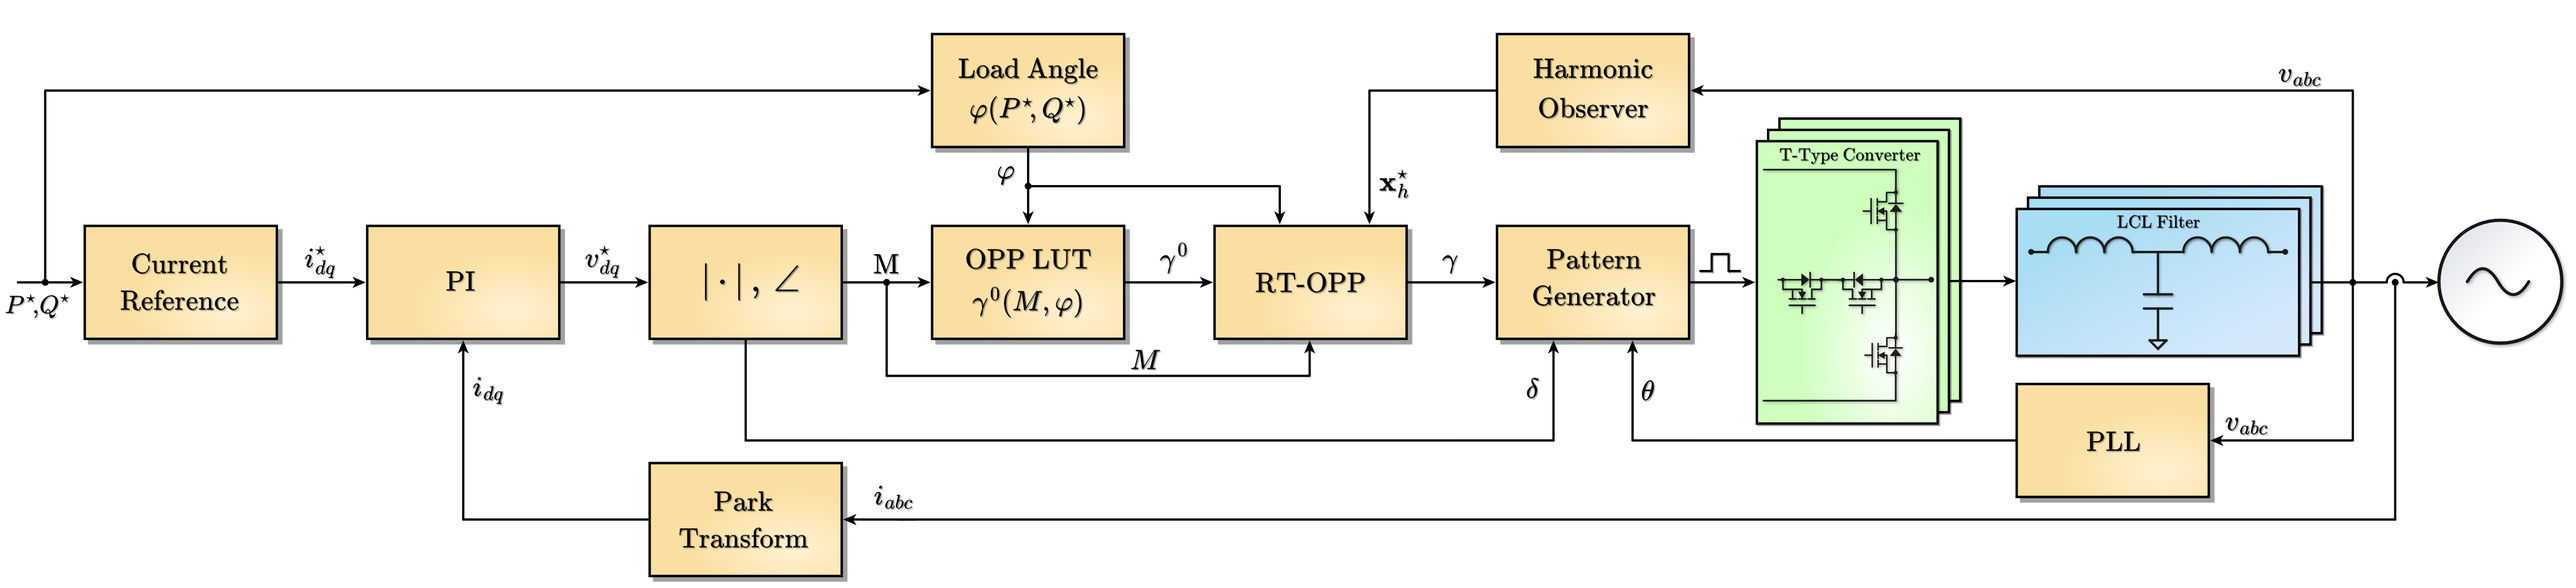
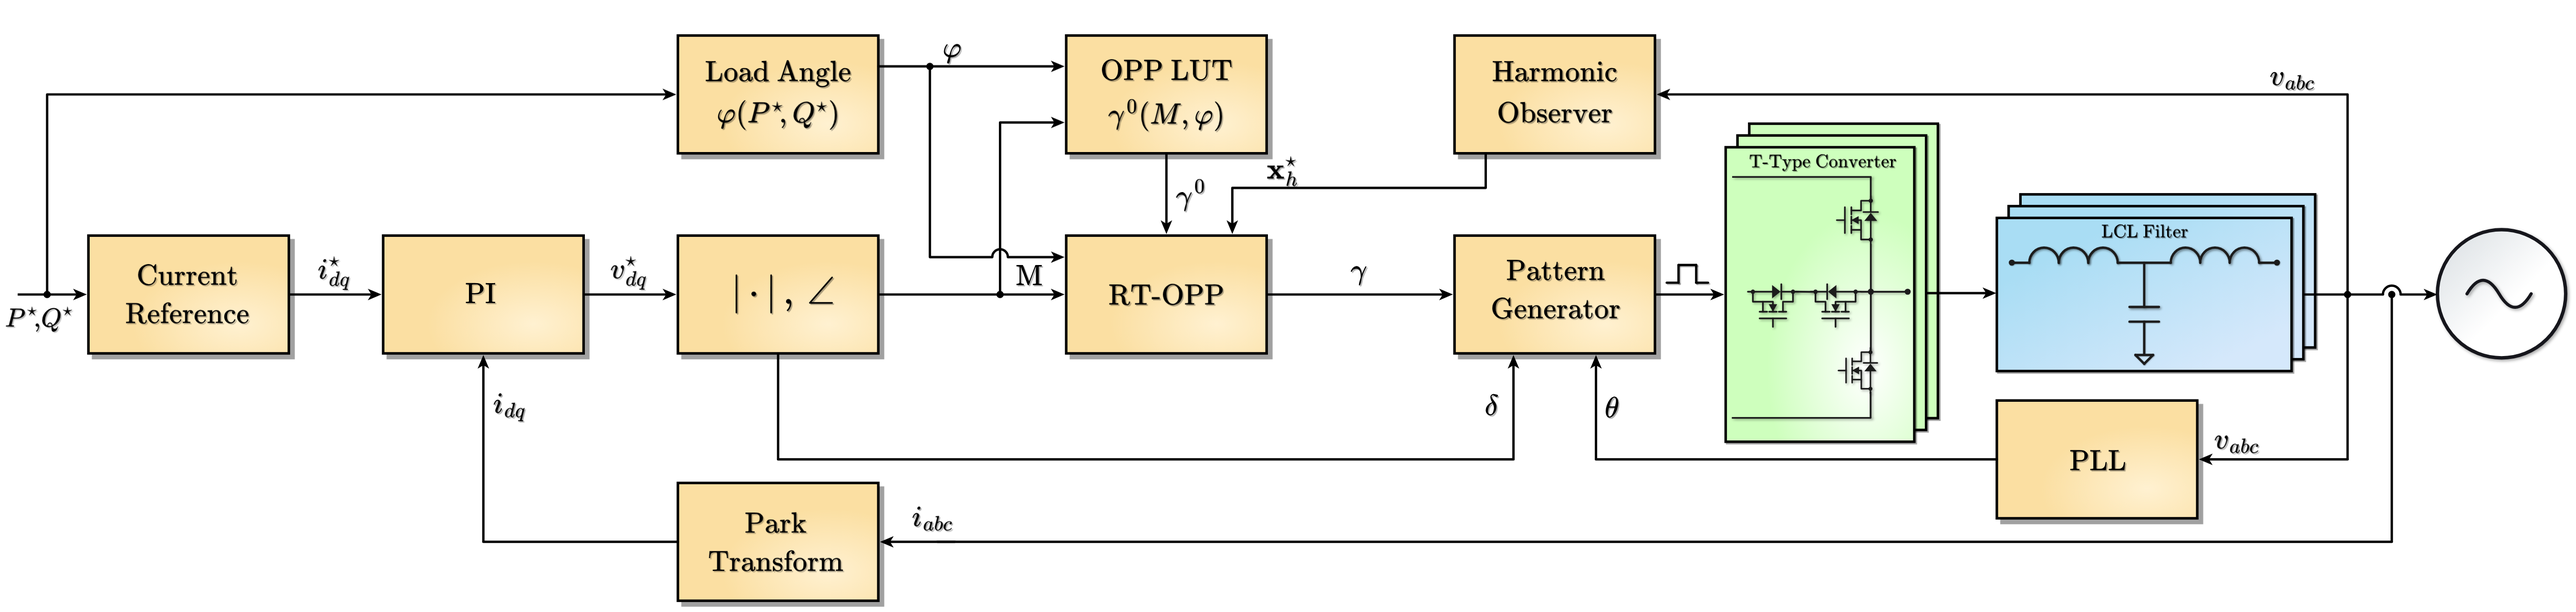
Control scheme v4: LUT above RT-OPP, cleaner routing
Claude-Session: https://claude.ai/code/session_01QSiZDmSBXiUAJD3Afnya9d

Changed region(s): [[0.0, 0.0308, 1.0, 1.0], [0.1867, 0.6472, 0.2178, 0.7088], [0.8711, 0.1233, 0.9022, 0.1541]]

diff --git a/tools/figura_control/build_svg.py b/tools/figura_control/build_svg.py
@@ -2,17 +2,19 @@ import json, re, sys
 # uso: python3 build_svg.py orig.svg labels_out.json salida.svg
 s = open(sys.argv[1]).read()
 L = json.load(open(sys.argv[2]))
-DX = 188.9766
+DX = 120.0     # corrimiento del generador en adelante
+D1 = 60.0      # corrimiento de la columna RT-OPP / LUT
 
-def shift_id(eid):
+def shift_id(eid, dx=None):
     global s
+    if dx is None: dx = DX
     m = re.search(r'<(\w+)\s[^>]*?id="%s"[^>]*>' % re.escape(eid), s)
     assert m, eid
     tag = m.group(0)
     if ' transform="' in tag:
-        new = tag.replace(' transform="', ' transform="translate(%.4f,0) ' % DX, 1)
+        new = tag.replace(' transform="', ' transform="translate(%.4f,0) ' % dx, 1)
     else:
-        new = tag.replace(' id="%s"' % eid, ' id="%s" transform="translate(%.4f,0)"' % (eid, DX), 1)
+        new = tag.replace(' id="%s"' % eid, ' id="%s" transform="translate(%.4f,0)"' % (eid, dx), 1)
     s = s.replace(tag, new, 1)
 
 def remove_id(eid):
@@ -38,9 +40,9 @@ def set_attr(eid, attr, fn):
     new = re.sub(r' %s="[^"]*"' % attr, ' %s="%.4f"' % (attr, fn(v)), tag, count=1)
     s = s.replace(tag, new, 1)
 
-# --- lado derecho: corre un bloque a la derecha ---
+# --- lado derecho: generador en adelante corre DX ---
 right = ['et52epo1d', 'fx43hzp9i', 'eicd6nuv', 'ee9s0vdw', 'ey2aueux', 'e7nh910y',
-         'en42ks8z', 'eba4kt910', 'fxgycuu611', 'ecngpsd1b', 'fx8iy5bf1i',
+         'en42ks8z', 'eba4kt910', 'ecngpsd1b', 'fx8iy5bf1i',
          'e3na4ky3l', 'e6pitvn3m', 'e0ojw0u3n', 'e9q2bwo3p', 'egygjb63q',
          'e2qvhco3r', 'ej5kq0j3s', 'eu0ctu73t',
          # capa del convertidor y LCL
@@ -58,6 +60,13 @@ assert s.count(g) == 1
 s = s.replace(g, g.replace('translate(9.4488', 'translate(%.4f' % (9.4488 + DX)))
 set_attr('ejqy1y63u', 'x1', lambda v: v + DX)   # i_abc horizontal
 set_attr('en1h9yzb', 'x2', lambda v: v + DX)    # delta horizontal
+# la caja de la LUT original pasa a ser el RT-OPP (corre D1)
+shift_id('ecr6qwb8', D1)
+set_attr('e14yxjwr', 'x2', lambda v: v + D1)    # M: polar -> RT-OPP
+shift_id('e0po8ozt', D1)                        # gamma: RT-OPP -> generador
+set_attr('e0po8ozt', 'x2', lambda v: v + DX - D1)
+shift_id('fxgycuu611', (DX + D1) / 2)           # etiqueta gamma al centro del cable
+shift_id('fx3e1rzq12', 67.0)                    # etiqueta M a la derecha de la rama
 remove_id('fx8slo5pj')   # etiqueta vieja de la LUT
 remove_id('fxbctl76j')   # phi viejo -> delta
 # etiqueta P*,Q* bajo el cable de entrada (arriba sube la rama al estimador)
@@ -88,45 +97,48 @@ def dot(x, y):
             'stroke="#000000" stroke-width="2.2677"/>\n' % (x, y))
 
 YM = 113.386; YT = -15.0; YB = 75.5906; GAP = 7.5591
-xR = 816.379                    # RT-OPP (posicion vieja del generador)
-xE = 627.4024                   # estimador de phi (sobre la LUT)
-xO = 816.379 + DX               # observador (sobre el generador corrido)
+xP = 438.4258                   # columna del bloque polar
+xC = 627.4024 + D1              # columna RT-OPP (abajo) / LUT (arriba)
+xG = 816.379 + DX               # columna del generador / observador
 xPCC = 1388.9782 + DX           # nodo de medicion de v_abc
 n = ''
-n += blk(xR, YB) + lab('rtopp', xR + W/2, YM)
-n += blk(xE, YT - H/2) + lab('est', xE + W/2, YT)
-n += blk(xO, YT - H/2) + lab('obs', xO + W/2, YT)
-n += lab('lut', 627.4024 + W/2, YM)
-# RT-OPP -> generador
-n += wire('M %.4f %.4f L %.4f %.4f' % (xR + W, YM, xR + W + 52.9135 - GAP + 7.5591 - 0.0, YM))
-# etiqueta gamma^0 en el cable LUT -> RT-OPP
-n += lab('g0', 779.6609, 103.5245, center=False)
-# phi: estimador -> LUT y -> RT-OPP
-xEc = xE + W/2; yEb = YT + H/2; yBr = 49.0
-n += wire('M %.4f %.4f L %.4f %.4f' % (xEc, yEb, xEc, YB - GAP))
-n += dot(xEc, yBr)
-n += wire('M %.4f %.4f L %.4f %.4f L %.4f %.4f' % (xEc, yBr, 860.0, yBr, 860.0, YB - GAP))
-n += lab('phi', 670.5, 44.0, center=False)
-# P*,Q* entra una vez y se divide: referencia de corriente y estimador de phi
+n += lab('rtopp', xC + W/2, YM)
+n += blk(xP, YT - H/2) + lab('est', xP + W/2, YT)
+n += blk(xC, YT - H/2) + lab('lut', xC + W/2, YT)
+n += blk(xG, YT - H/2) + lab('obs', xG + W/2, YT)
+# P*,Q* entra una vez y se divide: referencia de corriente y angulo de carga
 xPQ = 34.0
 n += dot(xPQ, YM)
-n += wire('M %.4f %.4f L %.4f %.4f L %.4f %.4f' % (xPQ, YM, xPQ, YT, xE - GAP, YT))
+n += wire('M %.4f %.4f L %.4f %.4f L %.4f %.4f' % (xPQ, YM, xPQ, YT, xP - GAP, YT))
+# phi: angulo de carga -> LUT, con rama al RT-OPP (salto sobre el cable de M)
+yF = YT - 18.0; xFd = 600.0; yFr = YM - 24.0
+xMd = 645.0; yMu = YT + 18.0; R = 5.0
+n += wire('M %.4f %.4f L %.4f %.4f' % (xP + W, yF, xC - GAP, yF))
+n += dot(xFd, yF)
+n += wire('M %.4f %.4f L %.4f %.4f L %.4f %.4f A %.1f %.1f 0 0 1 %.4f %.4f L %.4f %.4f'
+          % (xFd, yF, xFd, yFr, xMd - R, yFr, R, R, xMd + R, yFr, xC - GAP, yFr))
+n += lab('phi', 608.0, yF - 6.0, center=False)
+# M: rama del cable polar -> RT-OPP hacia la LUT
+n += dot(xMd, YM)
+n += wire('M %.4f %.4f L %.4f %.4f L %.4f %.4f' % (xMd, YM, xMd, yMu, xC - GAP, yMu))
+# gamma^0: LUT -> RT-OPP
+xCc = xC + W/2
+n += wire('M %.4f %.4f L %.4f %.4f' % (xCc, YT + H/2, xCc, YB - GAP))
+n += lab('g0', xCc + 6.0, 56.0, center=False)
 # observador: v_abc desde el PCC, salida x*_h al RT-OPP
-n += wire('M %.4f %.4f L %.4f %.4f L %.4f %.4f' % (xPCC, YM, xPCC, YT, xO + W + GAP, YT))
-n += lab('vabc2', 1528.0, YT - 6.0, center=False)
-n += wire('M %.4f %.4f L 920.0 %.4f L 920.0 %.4f' % (xO, YT, YT, YB - GAP))
-n += lab('xh', 926.5, 52.0, center=False)
-# M al RT-OPP (fundamental de referencia)
-xMb = 597.0; yM2 = 176.0
-n += dot(xMb, YM)
-n += wire('M %.4f %.4f L %.4f %.4f L 880.0 %.4f L 880.0 %.4f' % (xMb, YM, xMb, yM2, yM2, 151.1812 + GAP))
-n += lab('M2', 760.0, yM2 - 4.5, center=False)
+n += wire('M %.4f %.4f L %.4f %.4f L %.4f %.4f' % (xPCC, YM, xPCC, YT, xG + W + GAP, YT))
+n += lab('vabc2', 1339.02 + DX, YT - 6.0, center=False)
+xHo = xG + 20.0; yH = 45.0; xHi = xC + W - 22.0
+n += wire('M %.4f %.4f L %.4f %.4f L %.4f %.4f L %.4f %.4f'
+          % (xHo, YT + H/2, xHo, yH, xHi, yH, xHi, YB - GAP))
+n += lab('xh', xHi + 22.0, yH - 6.0, center=False)
 # delta en el cable del bloque polar al generador
 n += lab('delta', 835.6735 + DX, 190.753, center=False)
 
 s = s.replace('</svg>', '<g id="nuevos_rtopp" transform="scale(0.264583)">\n' + n + '</g>\n</svg>')
 # lienzo: mas ancho y mas alto
+wmm = 405 + DX * 0.264583
 s = s.replace('width="405mm" height="85mm" viewBox="1 -1 405 85"',
-              'width="456mm" height="104mm" viewBox="1 -20 456 104"')
+              'width="%.0fmm" height="104mm" viewBox="1 -20 %.0f 104"' % (wmm, wmm))
 open(sys.argv[3], 'w').write(s)
-print('ok', len(s))
+print('ok', len(s), 'ancho mm', round(wmm))

diff --git a/tools/figura_control/README.md b/tools/figura_control/README.md
@@ -2,8 +2,9 @@
 
 Genera `figuras/esquema_control_OPP_v4/` a partir del SVG original del autor
 (`figuras/esquema_control_OPP_v3/esquema_control_OPP_v3.svg`): corre un bloque
-a la derecha la parte del generador de patrones en adelante y agrega RT-OPP,
-el observador de armonicos y el bloque del angulo de carga phi(P*,Q*).
+a la derecha la parte del generador de patrones en adelante (DX), convierte la
+caja de la LUT original en el RT-OPP (corrida D1) y agrega encima la LUT, el
+observador de armonicos y el bloque del angulo de carga phi(P*,Q*).
 Las etiquetas nuevas se generan con MathJax para que calcen con las originales.
 
 ```
@@ -13,5 +14,5 @@ python3 build_svg.py ../../figuras/esquema_control_OPP_v3/esquema_control_OPP_v3
     labels_out.json ../../figuras/esquema_control_OPP_v4/esquema_control_OPP_v4.svg
 # PNG a 3x (Chromium de Playwright)
 NODE_PATH=$(npm root -g) node render.js ../../figuras/esquema_control_OPP_v4/esquema_control_OPP_v4.svg \
-    ../../figuras/esquema_control_OPP_v4/esquema_control_OPP_v4.png 1800 411 3
+    ../../figuras/esquema_control_OPP_v4/esquema_control_OPP_v4.png 1800 428 3
 ```

diff --git a/docs/BITACORA.md b/docs/BITACORA.md
@@ -96,6 +96,10 @@
 - Fuentes y scripts en `tools/figura_control/`.
 - P*,Q* entra una sola vez y se bifurca (punto) hacia la referencia de
   corriente y el bloque phi(P*,Q*); la etiqueta queda bajo el cable.
+- Reordenado (pedido del autor, se veia enredado): fila superior = angulo de
+  carga | LUT | observador; fila principal = polar -> RT-OPP -> generador.
+  La LUT queda sobre el RT-OPP (gamma^0 baja vertical), M y phi llegan a ambos
+  con un solo cruce (salto). Ancho 437 mm (antes 456).
 
 ### Pendientes
 
